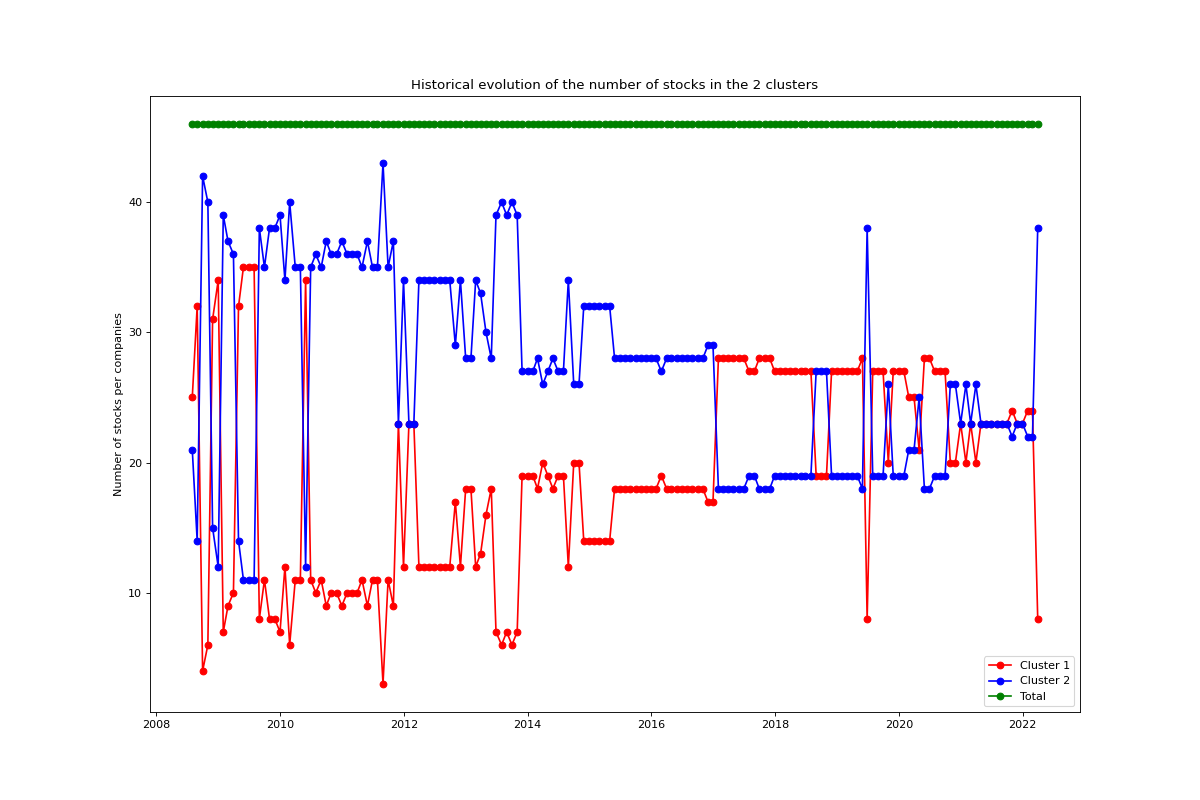
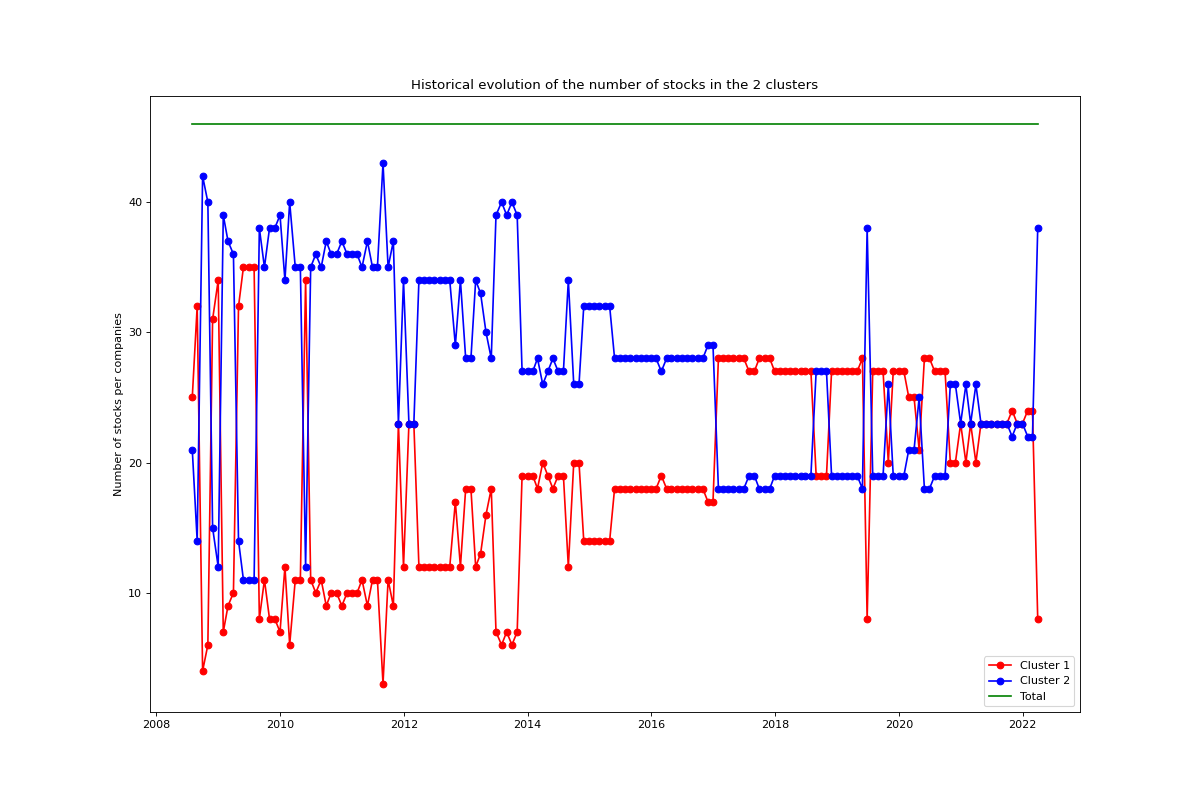
Zou les loulous

Changed region(s): [[0.1542, 0.125, 0.8633, 0.1875]]

diff --git a/Partie_1.py b/Partie_1.py
@@ -42,7 +42,7 @@ def dataframe_clusters(graph: bool = 0) -> pd.DataFrame:
         clusters = fcluster(output, n_clust, criterion='maxclust')
         df_clust.iloc[i - 35, :] = clusters
 
-        if graph:  # Clusters at each t
+        if False:  # Clusters at each t
 
             plt.figure(figsize=(10, 10))
             plt.xlabel('Distance')
@@ -64,7 +64,7 @@ def dataframe_clusters(graph: bool = 0) -> pd.DataFrame:
         plt.figure(figsize=(15, 10), dpi=80)
         plt.plot(label, df_graph.iloc[:, 0], color='red', marker='o', label='Cluster 1')
         plt.plot(label, df_graph.iloc[:, 1], color='blue', marker='o', label='Cluster 2')
-        plt.plot(label, df_graph.iloc[:, 2], color='green', marker='o', label='Total')
+        plt.plot(label, df_graph.iloc[:, 2], color='green', label='Total')
         plt.legend()
         plt.ylabel('Number of stocks per companies')
         plt.title('Historical evolution of the number of stocks in the 2 clusters')
